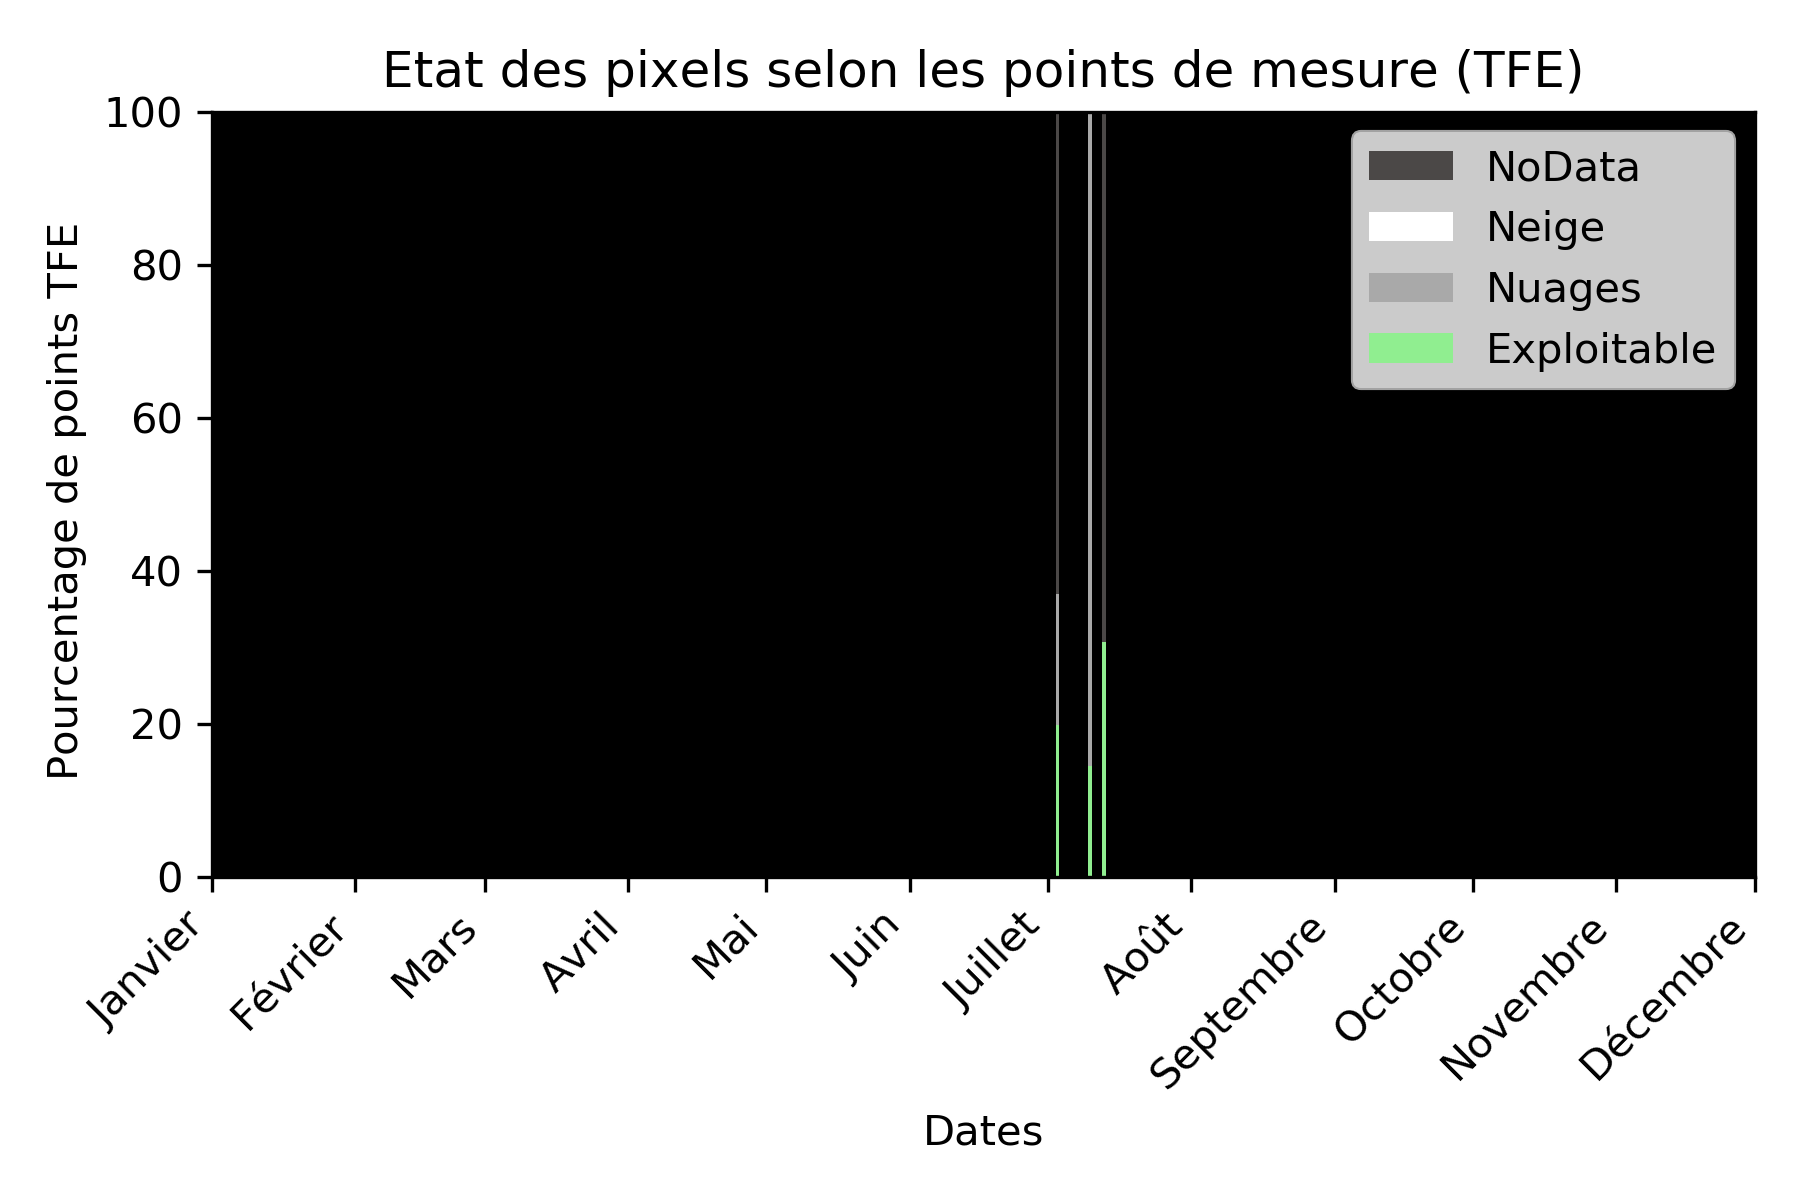
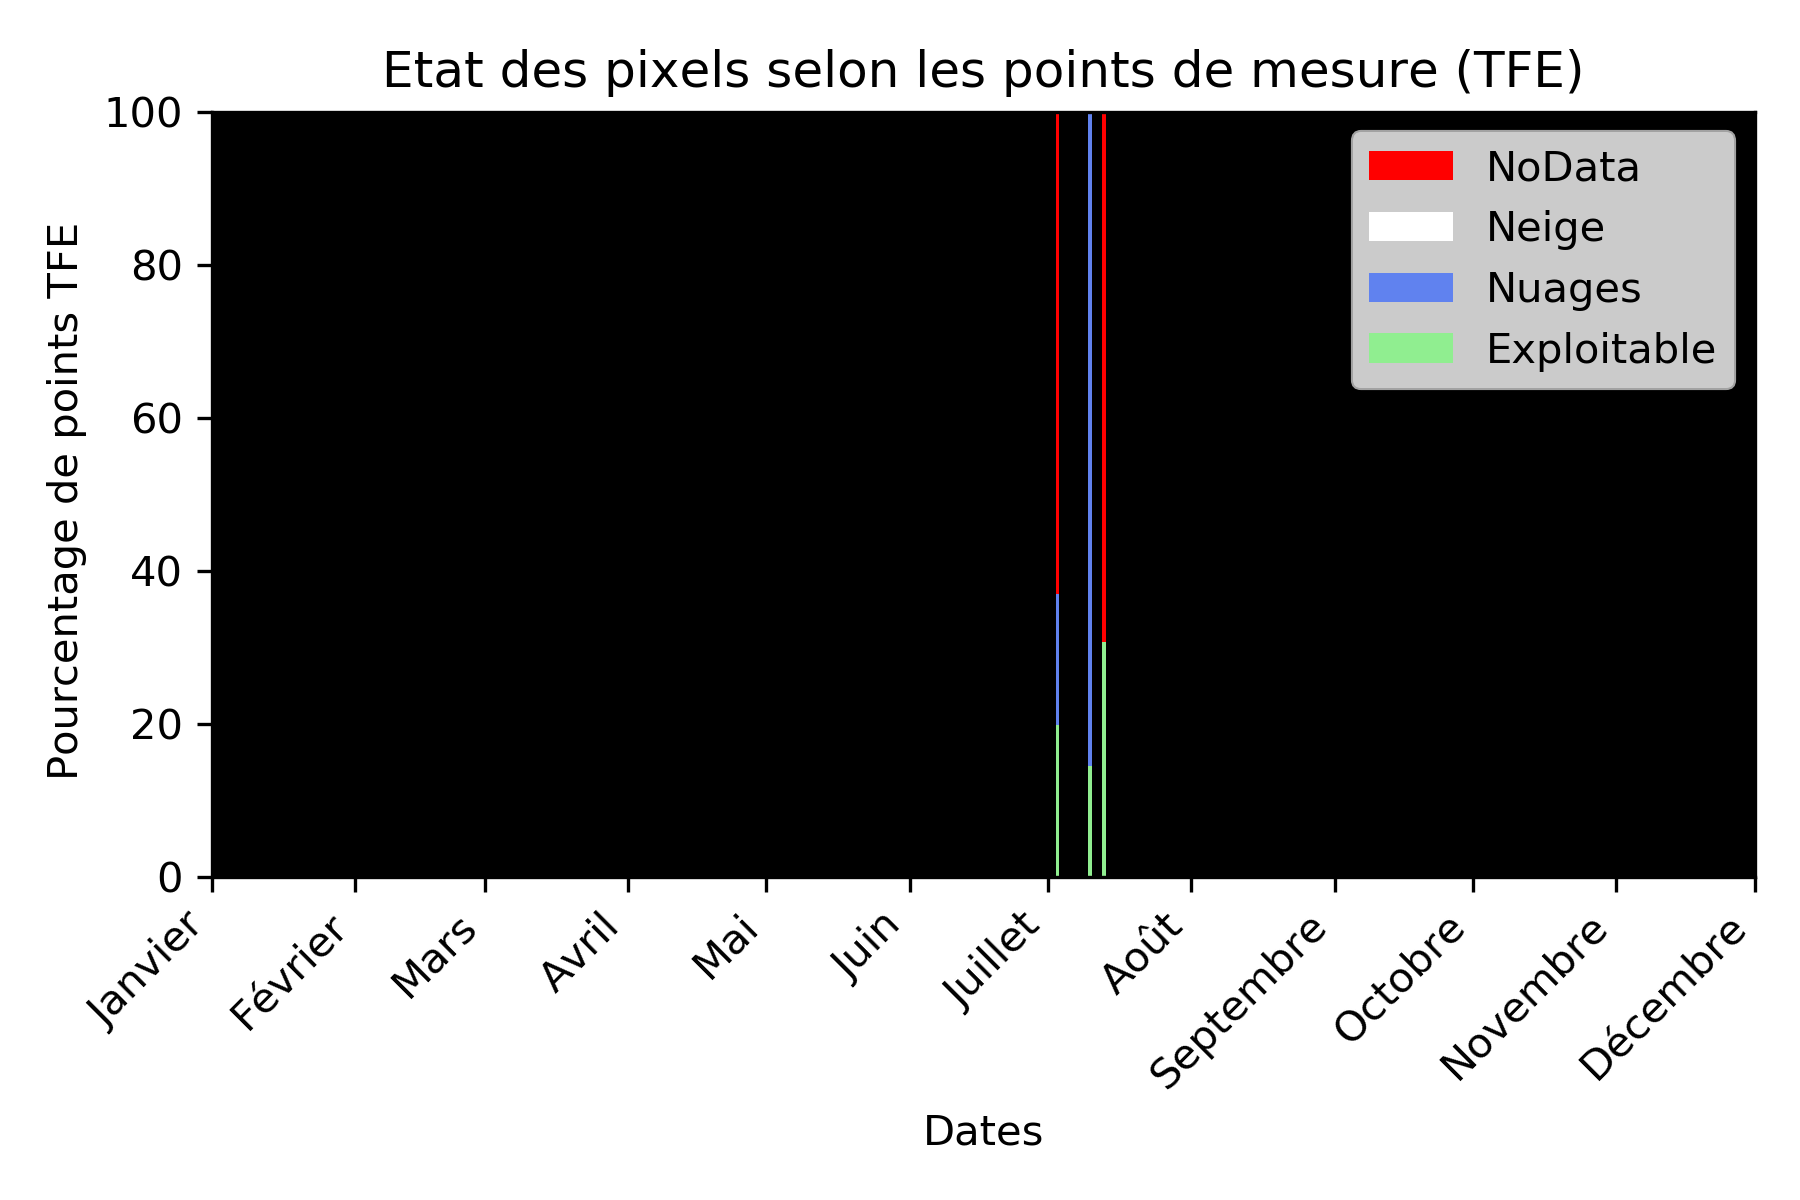
modif couleur graphs snow

Changed region(s): [[0.5911, 0.0925, 0.6222, 0.5242], [0.7467, 0.2158, 0.8089, 0.2775], [0.7467, 0.1233, 0.8089, 0.1542]]

diff --git a/scripts/applicationMasqueSnow/applicationMasqueSnowScript.py b/scripts/applicationMasqueSnow/applicationMasqueSnowScript.py
@@ -195,9 +195,9 @@ for d in range(len(listeDate)):
    
     
     
-    plt.bar(indexDate, GNoData, width=0.8,color='#4B4847', bottom=GNeige+GNuages+GExploitable)
+    plt.bar(indexDate, GNoData, width=0.8,color='red', bottom=GNeige+GNuages+GExploitable)
     plt.bar(indexDate, GNeige, width=0.8,color='white', bottom=GNuages+GExploitable)
-    plt.bar(indexDate, GNuages, width=0.8,color='darkgrey', bottom=GExploitable)
+    plt.bar(indexDate, GNuages, width=0.8,color='#6082EF', bottom=GExploitable)
     plt.bar(indexDate, GExploitable, width=0.8,color='lightgreen')
     
     
@@ -342,9 +342,9 @@ for d in range(len(listeDate)):
    
     
     
-    plt.bar(indexDate, GNoData, width=0.8,color='#4B4847', bottom=GNeige+GNuages+GExploitable)
+    plt.bar(indexDate, GNoData, width=0.8,color='red', bottom=GNeige+GNuages+GExploitable)
     plt.bar(indexDate, GNeige, width=0.8,color='white', bottom=GNuages+GExploitable)
-    plt.bar(indexDate, GNuages, width=0.8,color='darkgrey', bottom=GExploitable)
+    plt.bar(indexDate, GNuages, width=0.8,color='#6082EF', bottom=GExploitable)
     plt.bar(indexDate, GExploitable, width=0.8,color='lightgreen')
     
     
@@ -488,9 +488,9 @@ for d in range(len(listeDate)):
    
     
     
-    plt.bar(indexDate, GNoData, width=0.8,color='#4B4847', bottom=GNeige+GNuages+GExploitable)
+    plt.bar(indexDate, GNoData, width=0.8,color='red', bottom=GNeige+GNuages+GExploitable)
     plt.bar(indexDate, GNeige, width=0.8,color='white', bottom=GNuages+GExploitable)
-    plt.bar(indexDate, GNuages, width=0.8,color='darkgrey', bottom=GExploitable)
+    plt.bar(indexDate, GNuages, width=0.8,color='#6082EF', bottom=GExploitable)
     plt.bar(indexDate, GExploitable, width=0.8,color='lightgreen')
     
     
@@ -633,9 +633,9 @@ for d in range(len(listeDate)):
    
     
     
-    plt.bar(indexDate, GNoData, width=0.8,color='#4B4847', bottom=GNeige+GNuages+GExploitable)
+    plt.bar(indexDate, GNoData, width=0.8,color='red', bottom=GNeige+GNuages+GExploitable)
     plt.bar(indexDate, GNeige, width=0.8,color='white', bottom=GNuages+GExploitable)
-    plt.bar(indexDate, GNuages, width=0.8,color='darkgrey', bottom=GExploitable)
+    plt.bar(indexDate, GNuages, width=0.8,color='#6082EF', bottom=GExploitable)
     plt.bar(indexDate, GExploitable, width=0.8,color='lightgreen')
     
     
@@ -778,9 +778,9 @@ for d in range(len(listeDate)):
    
     
     
-    plt.bar(indexDate, GNoData, width=0.8,color='#4B4847', bottom=GNeige+GNuages+GExploitable)
+    plt.bar(indexDate, GNoData, width=0.8,color='red', bottom=GNeige+GNuages+GExploitable)
     plt.bar(indexDate, GNeige, width=0.8,color='white', bottom=GNuages+GExploitable)
-    plt.bar(indexDate, GNuages, width=0.8,color='darkgrey', bottom=GExploitable)
+    plt.bar(indexDate, GNuages, width=0.8,color='#6082EF', bottom=GExploitable)
     plt.bar(indexDate, GExploitable, width=0.8,color='lightgreen')
     
     
@@ -923,9 +923,9 @@ for d in range(len(listeDate)):
    
     
     
-    plt.bar(indexDate, GNoData, width=0.8,color='#4B4847', bottom=GNeige+GNuages+GExploitable)
+    plt.bar(indexDate, GNoData, width=0.8,color='red', bottom=GNeige+GNuages+GExploitable)
     plt.bar(indexDate, GNeige, width=0.8,color='white', bottom=GNuages+GExploitable)
-    plt.bar(indexDate, GNuages, width=0.8,color='darkgrey', bottom=GExploitable)
+    plt.bar(indexDate, GNuages, width=0.8,color='#6082EF', bottom=GExploitable)
     plt.bar(indexDate, GExploitable, width=0.8,color='lightgreen')
     
     
@@ -1068,9 +1068,9 @@ for d in range(len(listeDate)):
    
     
     
-    plt.bar(indexDate, GNoData, width=0.8,color='#4B4847', bottom=GNeige+GNuages+GExploitable)
+    plt.bar(indexDate, GNoData, width=0.8,color='red', bottom=GNeige+GNuages+GExploitable)
     plt.bar(indexDate, GNeige, width=0.8,color='white', bottom=GNuages+GExploitable)
-    plt.bar(indexDate, GNuages, width=0.8,color='darkgrey', bottom=GExploitable)
+    plt.bar(indexDate, GNuages, width=0.8,color='#6082EF', bottom=GExploitable)
     plt.bar(indexDate, GExploitable, width=0.8,color='lightgreen')
     
     
